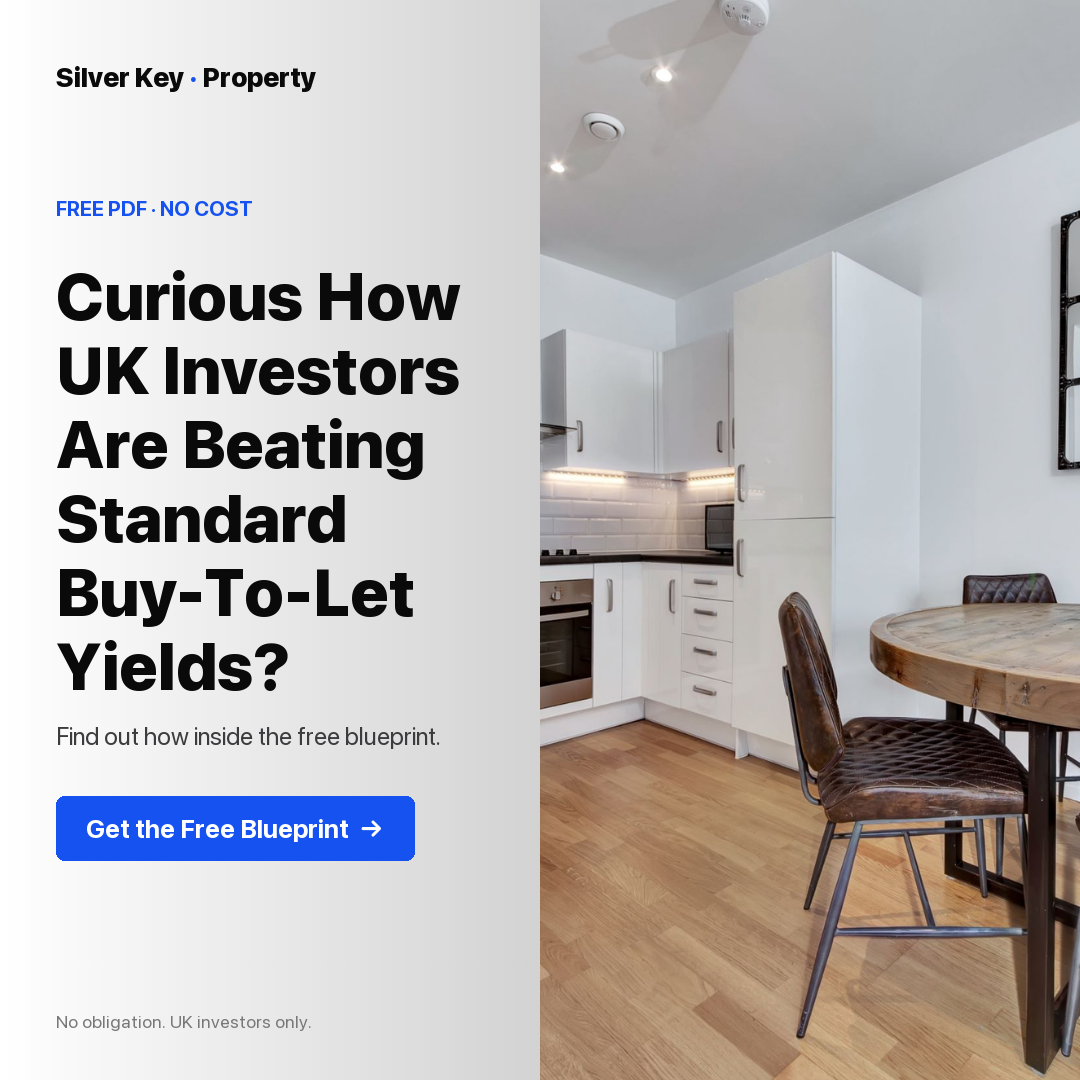
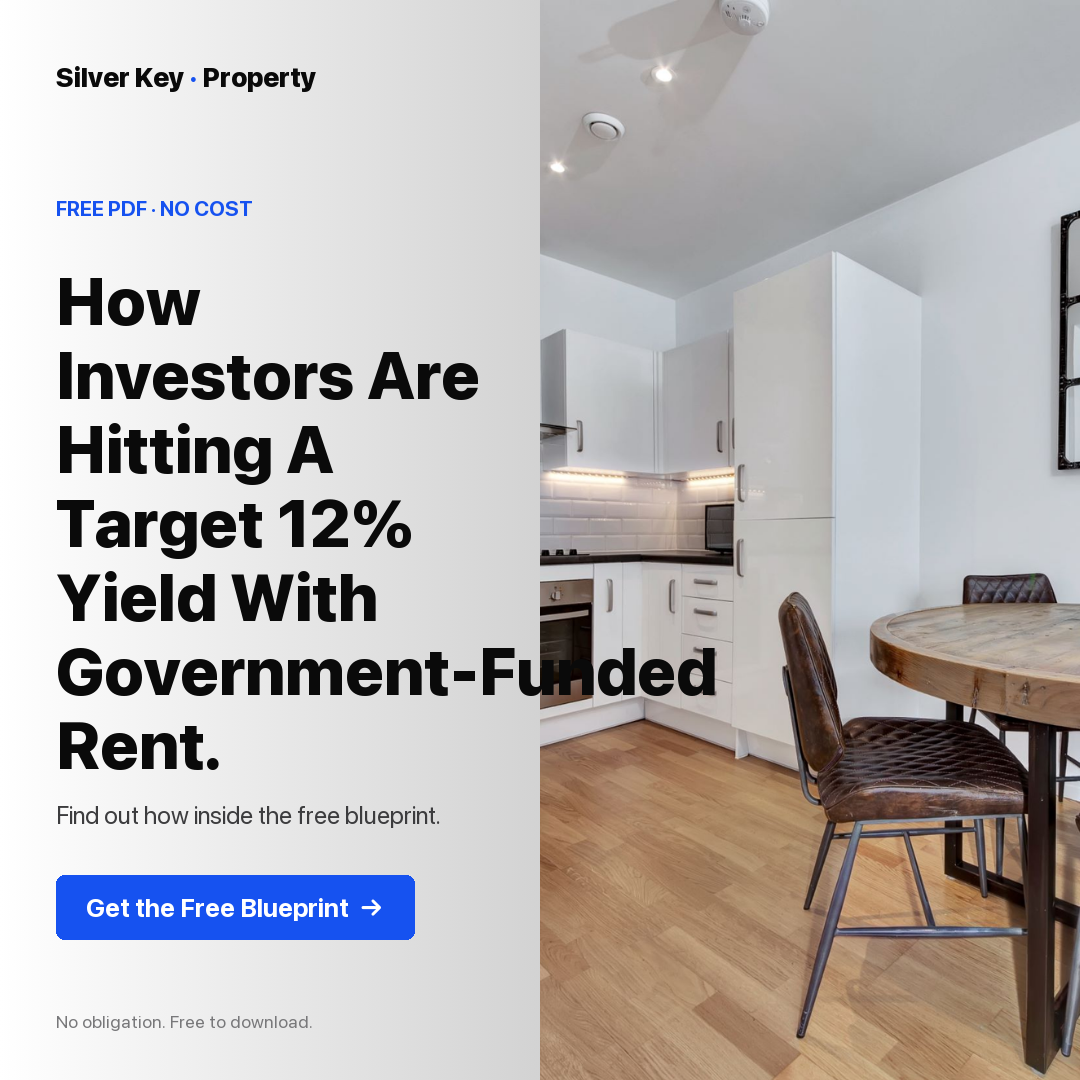
Add newly-approved copy (government-funded, target 12% yield) across the funnel
Now cleared to use these terms, so worked them into the spots that
benefit most: hero eyebrow, trust strip, the benefit cards already
gesturing at this, the FAQ answer on where rent comes from, guide.html's
cover and income section, and the ad creative badges/headlines.

Also dropped "UK investors only" / "UK Investors" / "UK Landlords"
audience-restricting language from the funnel and ads, since targeting
is expanding beyond the UK -- kept "UK property" references since the
asset itself is still UK-based, just not gating who can view/respond
to the ads.

Ad 2's headline changed from a curiosity hook to stating the yield
and funding source directly, since putting the new proof badge above
its old "curious how..." headline would have spoiled its own hook.
Ads 1 and 3 keep their curiosity headlines with the new badge as
supporting proof above them.

Changed region(s): [[0.0306, 0.2444, 0.6722, 0.8861], [0.2139, 0.9472, 0.275, 0.9778]]

diff --git a/index.html b/index.html
@@ -175,7 +175,7 @@ src="https://www.facebook.com/tr?id=1413414506119281&ev=PageView&noscript=1"
   </nav>
 </header>
 
-<div class="announce">SPECIALIST SUPPORTED HOUSING - A smarter way to invest in property for long-term rental income</div>
+<div class="announce">SPECIALIST SUPPORTED HOUSING - Government-funded rental income with a target 12% yield</div>
 
 <main>
 
@@ -183,7 +183,7 @@ src="https://www.facebook.com/tr?id=1413414506119281&ev=PageView&noscript=1"
   <section class="hero hero--split">
     <div class="wrap hero-inner">
       <div class="hero-copy-block">
-        <span class="eyebrow">Free PDF · No cost · Instant access</span>
+        <span class="eyebrow">Government-Funded Income · Target 12% Yield</span>
         <h1>Download Your Free <span class="hl">Supported Housing Blueprint</span></h1>
         <p class="lede">Answer a few quick questions and we'll send your free blueprint immediately.</p>
       </div>
@@ -288,7 +288,9 @@ src="https://www.facebook.com/tr?id=1413414506119281&ev=PageView&noscript=1"
       <div class="review-divider"></div>
       <div class="review-item"><span class="review-text">100+ Properties Delivered</span></div>
       <div class="review-divider"></div>
-      <div class="review-item"><span class="review-text">Trusted by UK Investors</span></div>
+      <div class="review-item"><span class="review-text">Target 12% Yield</span></div>
+      <div class="review-divider"></div>
+      <div class="review-item"><span class="review-text">Government-Funded Income</span></div>
     </div>
   </div>
 
@@ -343,7 +345,7 @@ src="https://www.facebook.com/tr?id=1413414506119281&ev=PageView&noscript=1"
         </div>
         <div class="benefit-card">
           <div class="benefit-icon"><svg viewBox="0 0 24 24" fill="none" stroke="currentColor" stroke-width="1.75" stroke-linecap="round" stroke-linejoin="round"><rect width="20" height="12" x="2" y="6" rx="2"/><circle cx="12" cy="12" r="2"/><path d="M6 12h.01M18 12h.01"/></svg></div>
-          <p class="benefit-text">Own a tangible, income-generating asset that pays you monthly</p>
+          <p class="benefit-text">Own a tangible, income-generating asset with a target 12% yield, paid monthly</p>
         </div>
         <div class="benefit-card">
           <div class="benefit-icon"><svg viewBox="0 0 24 24" fill="none" stroke="currentColor" stroke-width="1.75" stroke-linecap="round" stroke-linejoin="round"><path d="M20 13c0 5-3.5 7.5-7.66 8.95a1 1 0 0 1-.67-.01C7.5 20.5 4 18 4 13V6a1 1 0 0 1 1-1c2 0 4.5-1.2 6.24-2.72a1.17 1.17 0 0 1 1.52 0C14.51 3.81 17 5 19 5a1 1 0 0 1 1 1z"/><path d="m9 12 2 2 4-4"/></svg></div>
@@ -363,7 +365,7 @@ src="https://www.facebook.com/tr?id=1413414506119281&ev=PageView&noscript=1"
         </div>
         <div class="benefit-card">
           <div class="benefit-icon"><svg viewBox="0 0 24 24" fill="none" stroke="currentColor" stroke-width="1.75" stroke-linecap="round" stroke-linejoin="round"><line x1="3" x2="21" y1="22" y2="22"/><line x1="6" x2="6" y1="18" y2="11"/><line x1="10" x2="10" y1="18" y2="11"/><line x1="14" x2="14" y1="18" y2="11"/><line x1="18" x2="18" y1="18" y2="11"/><polygon points="12 2 20 7 4 7"/></svg></div>
-          <p class="benefit-text">Monthly rental income supported through government-facilitated payments</p>
+          <p class="benefit-text">Monthly rental income, government-funded through Housing Benefit and Universal Credit</p>
         </div>
         <div class="benefit-card">
           <div class="benefit-icon"><svg viewBox="0 0 24 24" fill="none" stroke="currentColor" stroke-width="1.75" stroke-linecap="round" stroke-linejoin="round"><path d="M19 14c1.49-1.46 3-3.21 3-5.5A5.5 5.5 0 0 0 16.5 3c-1.76 0-3 .5-4.5 2-1.5-1.5-2.74-2-4.5-2A5.5 5.5 0 0 0 2 8.5c0 2.29 1.51 4.04 3 5.5l7 7Z"/></svg></div>
@@ -449,7 +451,7 @@ src="https://www.facebook.com/tr?id=1413414506119281&ev=PageView&noscript=1"
         </details>
         <details class="faq-item">
           <summary>Where does the rent actually come from?</summary>
-          <p>Primarily Housing Benefit or Universal Credit housing costs, paid to the registered provider, who in turn pays the lease rent to the property owner. The blueprint sets out how this differs from standard buy-to-let income.</p>
+          <p>The rent is government-funded, paid primarily through Housing Benefit or Universal Credit housing costs to the registered provider, who in turn pays the lease rent to the property owner. The blueprint sets out how this differs from standard buy-to-let income.</p>
         </details>
         <details class="faq-item">
           <summary>What are the key risks?</summary>

diff --git a/guide.html b/guide.html
@@ -203,7 +203,7 @@
       <div class="cover-bar"></div>
       <span class="kicker">Investor Guide</span>
       <h1>The<br />Blueprint</h1>
-      <p class="standfirst">A practical guide to investing in Specialist Supported Housing, and the government-facilitated rental income model behind it.</p>
+      <p class="standfirst">A practical guide to investing in Specialist Supported Housing, and the government-funded rental income model behind it.</p>
     </div>
     <div class="cover-bottom">
       <span>Prepared for prospective investors</span>
@@ -296,7 +296,9 @@
   <h2 class="section-title">Understanding Your Rental Income</h2>
   <p class="section-sub">Where the money actually comes from, and how it moves.</p>
 
-  <p>Rental income in supported housing is funded through Housing Benefit and Universal Credit housing cost payments, administered by the relevant local authority and paid to the approved housing provider, who in turn pays you as the property owner. It's a different funding mechanism to the open rental market, and one that exists specifically to fund this kind of accommodation.</p>
+  <p>Rental income in supported housing is government-funded, through Housing Benefit and Universal Credit housing cost payments, administered by the relevant local authority and paid to the approved housing provider, who in turn pays you as the property owner. It's a different funding mechanism to the open rental market, and one that exists specifically to fund this kind of accommodation.</p>
+
+  <p>Across our current opportunities, this typically works out to a target net yield of around 12%, though the exact figure varies property by property depending on purchase price, location and the specific lease terms agreed with the housing association.</p>
 
   <p>Most agreements include an annual rental increase, commonly a minimum of 1%, often linked to inflation. The intention is straightforward: to help the real value of your income keep pace with the cost of living over what is typically a very long hold period, rather than staying flat for two and a half decades.</p>
 